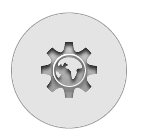
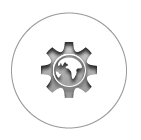
* Circular Menu Touch Up Execute.   - Rolled back Theme images.
* Improved gestures.

diff --git a/AndroidTeam/PadKite_Stable/src/com/roamtouch/menu/CircularLayout.java b/AndroidTeam/PadKite_Stable/src/com/roamtouch/menu/CircularLayout.java
@@ -229,6 +229,7 @@ public class CircularLayout extends ViewGroup {
 		mAngleChange = angleChange;
 	}
 	public void resetMenu(){
+		hotBut.setVisibility(View.VISIBLE);
 		double t = 55;
 		for (int i = 1; i < childEndPoint; i++) {
 			   MenuButton child = (MenuButton)getChildAt(i);
@@ -402,7 +403,7 @@ public class CircularLayout extends ViewGroup {
                 currentAngle = mLastMotionAngle;
             }
             currentAngle = (float)computeAngle1(a, b, x, y);
-            currentAngle=currentAngle*2;
+            //currentAngle=currentAngle*2;
             //Log.d("Action move---------------Current angle",""+currentAngle);
             angleDiff = currentAngle-mLastMotionAngle;
             //Log.d("Angle diff---------------",""+angleDiff);
@@ -443,7 +444,13 @@ public class CircularLayout extends ViewGroup {
             mLastMotionY = y;
             
             if(!canScroll(angleDiff, count)){
-            	drawHotTip();
+            	drawHotTip();            	
+            	//caca
+            	String url = null;
+    			if (hotBut.getFunction().equals("new_window")){			
+    				url = "add_pressed.png";    			 		
+    			 }  
+    			hotBut.setHotDrawables(PATH + url);    			
             	return true;
             }
             
@@ -468,17 +475,20 @@ public class CircularLayout extends ViewGroup {
 		}
 		case MotionEvent.ACTION_UP:
 			
-			handler.removeCallbacks(runnableHot);	
+			//handler.removeCallbacks(runnableHot);	
 			
-			if (hotBut.getIsArmed()){
-				BrowserActivity.drawNothingTip();
-				hotBut.setFunction(hotFunction);		
-				long downTime = SystemClock.uptimeMillis();
-				long eventTime = SystemClock.uptimeMillis();								
-				MotionEvent hotEvent = MotionEvent.obtain(downTime, eventTime, MotionEvent.ACTION_UP, cX, cY, 0);				
-				hotBut.dispatchTouchEvent(hotEvent);				
-				hotBut.setIsArmed(false);				
+			//if (hotBut.getIsArmed()){
+			if (isNew){
+				hotFunction="new_window";
 			}
+			BrowserActivity.drawNothingTip();
+			hotBut.setFunction(hotFunction);		
+			long downTime = SystemClock.uptimeMillis();
+			long eventTime = SystemClock.uptimeMillis();								
+			MotionEvent hotEvent = MotionEvent.obtain(downTime, eventTime, MotionEvent.ACTION_UP, cX, cY, 0);				
+			hotBut.dispatchTouchEvent(hotEvent);				
+			hotBut.setIsArmed(false);				
+			//}
 			
 			final VelocityTracker velocityTracker = mVelocityTracker;
             velocityTracker.computeCurrentVelocity(1000);
@@ -525,6 +535,7 @@ public class CircularLayout extends ViewGroup {
 	boolean top;	  
 	private Hashtable hotHash = new Hashtable(); 
 	boolean fling; 
+	boolean isNew;
 	 
 	 public void moveChilds(){
 		 
@@ -568,7 +579,7 @@ public class CircularLayout extends ViewGroup {
 	                	if (!child.isAnglePositive()){	   
          		
 	                		int id = child.getId();
-	                		boolean has = hotHash.containsKey(id);
+	                		//boolean has = hotHash.containsKey(id);
 	                	
 	                		hotName = child.getDescription();
 	                		hotFunction = child.getFunction();	  
@@ -581,44 +592,58 @@ public class CircularLayout extends ViewGroup {
                 				checkName = checkChid.getFunction();
                 			}
                     		
-                    		if ( direction==-1 && !childName.equals(checkName) ){            		              			                 		
+                			setHotButtonImage(2);	
+                			drawHotTip();
+                		
+                			
+                			/*if (childName.equals("new_window")){
+                				handler.postDelayed(runnableHot, 600);  
+                			}*/
+                			
+                    		if ( direction==-1 && !childName.equals(checkName) ){
+                    			isNew=false;
+                    		}
 	                    		
-                    			if (!has) {
-                    				setHotButtonImage(false);	                    				
-                    				drawHotTip(); 
+                    		/*	if (!has) {
+                    				//setHotButtonImage(1);	                    				
+                    				//drawHotTip(); 
 			                		hotHash.put(id, child);            					                    			
-			                		handler.postDelayed(runnableHot, 1000);            		
+			                		//handler.postDelayed(runnableHot, 600);            		
 			                	}				                		
 			                	    
 	                    		
 	                    	} else if ( direction==1 && childName.equals(checkName)) {
 	                    		
+	                    		//handler.removeCallbacks(runnableHot);	
 	                    		hotHash.remove(id);
-	                    		drawHotTip(); 
-	                    		setHotButtonImage(false);
+	                    		//drawHotTip();
+	                    		//BrowserActivity.drawNothingTip();
+	                    		//setHotButtonImage(1);
                    	
-	                    	}		                    		
+	                    	}*/		                    		
 	                	}	                	
 	            	}          
 	            }
 	      }	 
 	 } 
 	 
-	 Runnable runnableHot = new Runnable(){
+	 /*Runnable runnableHot = new Runnable(){
 		 
 		public void run() {
 			top = false;
-			setHotButtonImage(true);		
+			setHotButtonImage(2);		
 			handler.removeCallbacks(runnableHot);						
 		}			
 		
-	};
+	};*/
 	 
-	 private void setHotButtonImage(boolean armed){		 
+	 private void setHotButtonImage(int armed){		 
 		 
 		 String url = null;
 		 
-		 if (!armed){
+		 switch (armed) {
+			 
+		 case 1:
 			 
 			hotBut.setIsArmed(false);
 			url = hotFunction + "_normal.png";
@@ -629,9 +654,10 @@ public class CircularLayout extends ViewGroup {
 	 				url = "Finger_model_multi.png";
 	 			} 			
 	 		}
+			break;
 			
-		 } else {
-			 
+		 
+		 case 2:	 
 			hotBut.setIsArmed(true);
 			url = hotFunction + "_pressed.png";
 			if (hotFunction.equals("finger_model")){			
@@ -640,12 +666,21 @@ public class CircularLayout extends ViewGroup {
 			 	} else {
 			 			url = "Finger_model_multi_pressed.png";
 			 	} 			
-			 }     
+			 }  
+			break;
 			
-		 }
+		 case 3:
+			 url="";
+			 break;
+		}
 		 
-		 handler.removeCallbacks(runnableHot);			
-		 hotBut.setHotDrawables(PATH + url);
+		 if (armed==3){
+			 hotBut.setVisibility(View.INVISIBLE);
+		 } else {
+			 //handler.removeCallbacks(runnableHot);
+			 hotBut.setVisibility(View.VISIBLE);
+			 hotBut.setHotDrawables(PATH + url);
+		 }
 		 
 	 }
 	 
@@ -665,7 +700,7 @@ public class CircularLayout extends ViewGroup {
 	public void fling(float velocityX, float velocityY) 
 	{
 		//Log.d("Scroll X,Y",getScrollX()+","+getScrollY());		
-		handler.removeCallbacks(runnableHot);	
+		//handler.removeCallbacks(runnableHot);	
 		mScroller.fling(getScrollX(), getScrollY(), velocityX, velocityY, 0,320, 0, 320);
 		invalidate();
 	}
@@ -720,6 +755,15 @@ public class CircularLayout extends ViewGroup {
 
             case MotionEvent.ACTION_DOWN:
                 /* Remember location of down touch */
+		
+            	//caca
+			String url = null;
+			if (hotBut.getFunction().equals("new_window")){			
+				url = "add_pressed.png";    			 		
+			 }  
+			isNew=true;
+			hotBut.setHotDrawables(PATH + url);
+
             	mLastMotionX = x;
                 mLastMotionY = y;
 

diff --git a/AndroidTeam/PadKite_Stable/src/com/roamtouch/floatingcursor/FloatingCursor.java b/AndroidTeam/PadKite_Stable/src/com/roamtouch/floatingcursor/FloatingCursor.java
@@ -660,7 +660,7 @@ public class FloatingCursor extends FrameLayout implements MultiTouchObjectCanva
 					fcWindowTabs.setVisibility(VISIBLE);
 					fcSettingsMenu.setVisibility(INVISIBLE);
 					fcMainMenu.setVisibility(INVISIBLE);
-					fcView.setVisibility(INVISIBLE);
+					fcView.setVisibility(INVISIBLE);					
 					break;		
 			}		
 		}
@@ -1777,14 +1777,22 @@ public class FloatingCursor extends FrameLayout implements MultiTouchObjectCanva
 		}	
 		
 		public void drawTip(Rect re, String[] comment, float X, float Y, int isFor){		
+			
+			Throwable t = new Throwable(); 
+			StackTraceElement[] elements = t.getStackTrace(); 
+
+			String calleeMethod = elements[0].getMethodName(); 
+			String callerMethodName = elements[1].getMethodName(); 
+			String callerClassName = elements[1].getClassName();
+			
 			int _x = Math.round(X);
 			int _y = Math.round(Y);
 			int[] initCoor = {_x,_y}; 
 			Object[] paramTip =  { 
 					re,					
-					comment,
-					//300,
-					initCoor
+					comment,					
+					initCoor,
+					1000
 				}; 
 			tCtrl.setTipComment(paramTip, isFor);		
 		}		

diff --git a/AndroidTeam/PadKite_Stable/src/com/roamtouch/swiftee/BrowserActivity.java b/AndroidTeam/PadKite_Stable/src/com/roamtouch/swiftee/BrowserActivity.java
@@ -373,7 +373,7 @@ public class BrowserActivity extends Activity implements OnGesturePerformedListe
 	        // Enable the built-in zoom
 	        webView.getSettings().setBuiltInZoomControls(false);	        
 	        webView.getSettings().setJavaScriptEnabled(true);   
-	        webView.getSettings().setPluginState(WebSettings.PluginState.ON);
+	        //webView.getSettings().setPluginState(WebSettings.PluginState.ON);
 	        
 			LayoutParams params = new LayoutParams(LayoutParams.FILL_PARENT,LayoutParams.FILL_PARENT);
 			//params.setMargins(0, 20, 0, 0);
@@ -518,7 +518,12 @@ public class BrowserActivity extends Activity implements OnGesturePerformedListe
     }
     
     public static void drawNothingTip(){
-    	tCtrl.drawNothing();    	
+    	Rect re = new Rect();
+    	String[] rectTip = {""};
+    	int[] cord = {0,0};
+    	Object[] param = {re, rectTip, cord}; 
+    	tCtrl.drawNothing();
+    	tCtrl.setTipComment(param, SwifteeApplication.IS_FOR_CIRCULAR_MENU_TIPS);
     }
     
     public void drawNothingRing(){    	

diff --git a/AndroidTeam/PadKite_Stable/src/com/roamtouch/visuals/TipController.java b/AndroidTeam/PadKite_Stable/src/com/roamtouch/visuals/TipController.java
@@ -43,11 +43,13 @@ public class TipController extends FrameLayout implements Runnable {
 	}
 	
 	public void setTipComment(Object[] param, int isFor){		
-		
+				
 		Rect rectTip  	= (Rect) param[0];		
-		String[] tText  = (String[]) param[1];
-		//time  			= (Integer) param[2];
+		String[] tText  = (String[]) param[1];					
 		int[] cord 	= (int[]) param[2];
+		if (isFor!=SwifteeApplication.IS_FOR_CIRCULAR_MENU_TIPS){
+			time = (Integer) param[3];
+		}
 		
 		int x = cord[0];
 		int y = cord[1];
@@ -104,9 +106,12 @@ public class TipController extends FrameLayout implements Runnable {
 		tV.setTipText(tText);		
  				
 		tV.setDraw(tipType);    			
-		/*task = new TipTimerTask();
-		timer = new Timer();  
-		timer.schedule(task,time);*/ 		
+		if (isFor!=SwifteeApplication.IS_FOR_CIRCULAR_MENU_TIPS){
+			task = new TipTimerTask();
+			timer = new Timer();  
+			timer.schedule(task,time);
+		}
+		 		
 	}   
 
 	

diff --git a/AndroidTeam/PadKite_Stable/src/com/roamtouch/visuals/TipView.java b/AndroidTeam/PadKite_Stable/src/com/roamtouch/visuals/TipView.java
@@ -69,6 +69,9 @@ public class TipView extends View {
 	 	    			if (tipText[0].toString().equals("Add New Window")){
 	 	    				_x -= 30; 
 	 	    			} 
+	 	    			if (tipText[0].toString().equals("Tabs Manager")){
+	 	    				_x -= 10; 
+	 	    			} 
 	 	    			if (tipText[0].toString().equals("Settings")){
 	 	    				_x += 20; 
 	 	    			}
